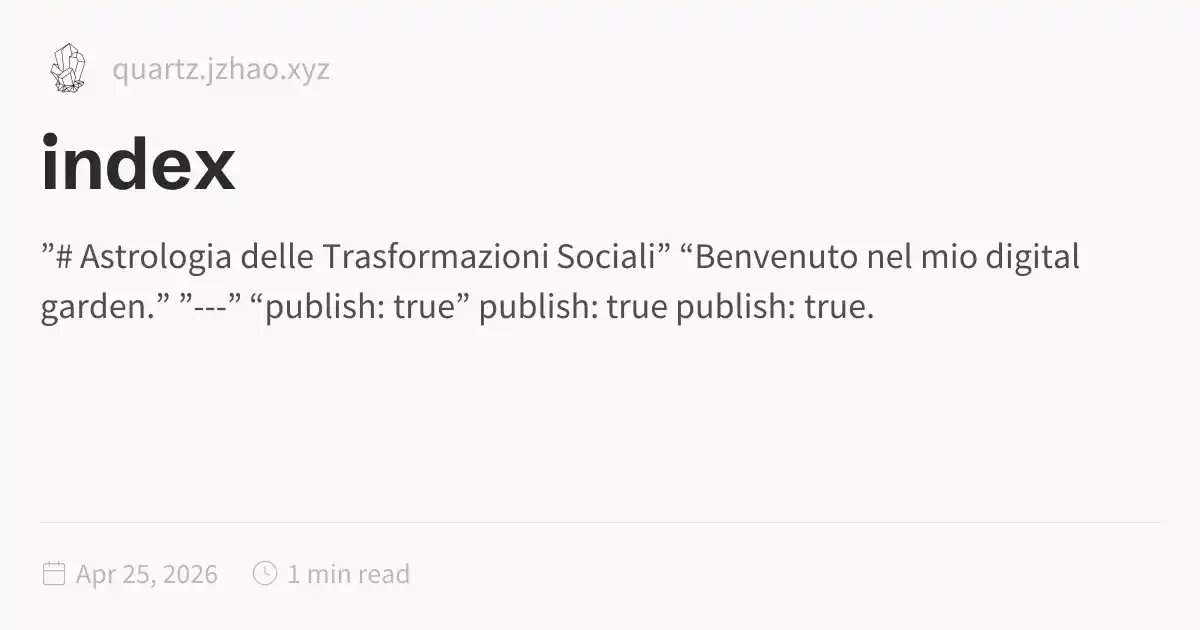
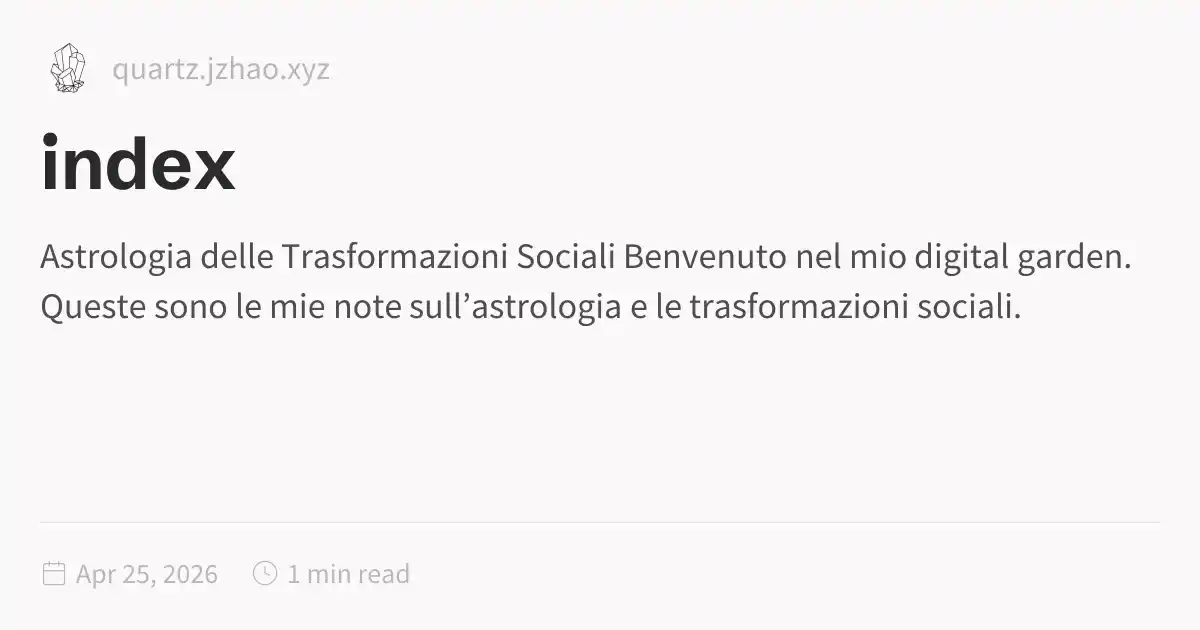
Aggiornamento diretto del sito via docs

Changed region(s): [[0.0308, 0.3619, 0.9558, 0.5127]]

diff --git a/docs/index.html b/docs/index.html
@@ -1,5 +1,5 @@
 <!DOCTYPE html>
-<html lang="en" dir="ltr"><head><title>index</title><meta charset="utf-8"/><link rel="preconnect" href="https://fonts.googleapis.com"/><link rel="preconnect" href="https://fonts.gstatic.com"/><link rel="stylesheet" href="https://fonts.googleapis.com/css2?family=Schibsted Grotesk:wght@400;700&amp;family=Source Sans Pro:ital,wght@0,400;0,600;1,400;1,600&amp;family=IBM Plex Mono:wght@400;600&amp;display=swap"/><link rel="preconnect" href="https://cdnjs.cloudflare.com" crossorigin="anonymous"/><meta name="viewport" content="width=device-width, initial-scale=1.0"/><meta name="og:site_name" content="Quartz 4"/><meta property="og:title" content="index"/><meta property="og:type" content="website"/><meta name="twitter:card" content="summary_large_image"/><meta name="twitter:title" content="index"/><meta name="twitter:description" content="”# Astrologia delle Trasformazioni Sociali” “Benvenuto nel mio digital garden.” ”---” “publish: true” publish: true publish: true."/><meta property="og:description" content="”# Astrologia delle Trasformazioni Sociali” “Benvenuto nel mio digital garden.” ”---” “publish: true” publish: true publish: true."/><meta property="og:image:alt" content="”# Astrologia delle Trasformazioni Sociali” “Benvenuto nel mio digital garden.” ”---” “publish: true” publish: true publish: true."/><meta property="twitter:domain" content="quartz.jzhao.xyz"/><meta property="og:url" content="https://quartz.jzhao.xyz/index"/><meta property="twitter:url" content="https://quartz.jzhao.xyz/index"/><link rel="icon" href="./static/icon.png"/><meta name="description" content="”# Astrologia delle Trasformazioni Sociali” “Benvenuto nel mio digital garden.” ”---” “publish: true” publish: true publish: true."/><meta name="generator" content="Quartz"/><link href="./index.css" rel="stylesheet" type="text/css" data-persist="true"/><style>.expand-button {
+<html lang="en" dir="ltr"><head><title>index</title><meta charset="utf-8"/><link rel="preconnect" href="https://fonts.googleapis.com"/><link rel="preconnect" href="https://fonts.gstatic.com"/><link rel="stylesheet" href="https://fonts.googleapis.com/css2?family=Schibsted Grotesk:wght@400;700&amp;family=Source Sans Pro:ital,wght@0,400;0,600;1,400;1,600&amp;family=IBM Plex Mono:wght@400;600&amp;display=swap"/><link rel="preconnect" href="https://cdnjs.cloudflare.com" crossorigin="anonymous"/><meta name="viewport" content="width=device-width, initial-scale=1.0"/><meta name="og:site_name" content="Quartz 4"/><meta property="og:title" content="index"/><meta property="og:type" content="website"/><meta name="twitter:card" content="summary_large_image"/><meta name="twitter:title" content="index"/><meta name="twitter:description" content="Astrologia delle Trasformazioni Sociali Benvenuto nel mio digital garden. Queste sono le mie note sull’astrologia e le trasformazioni sociali."/><meta property="og:description" content="Astrologia delle Trasformazioni Sociali Benvenuto nel mio digital garden. Queste sono le mie note sull’astrologia e le trasformazioni sociali."/><meta property="og:image:alt" content="Astrologia delle Trasformazioni Sociali Benvenuto nel mio digital garden. Queste sono le mie note sull’astrologia e le trasformazioni sociali."/><meta property="twitter:domain" content="quartz.jzhao.xyz"/><meta property="og:url" content="https://quartz.jzhao.xyz/index"/><meta property="twitter:url" content="https://quartz.jzhao.xyz/index"/><link rel="icon" href="./static/icon.png"/><meta name="description" content="Astrologia delle Trasformazioni Sociali Benvenuto nel mio digital garden. Queste sono le mie note sull’astrologia e le trasformazioni sociali."/><meta name="generator" content="Quartz"/><link href="./index.css" rel="stylesheet" type="text/css" data-persist="true"/><style>.expand-button {
   position: absolute;
   display: flex;
   float: right;
@@ -115,13 +115,10 @@ pre:hover > .expand-button {
   padding: 0 12px;
   font-size: 14px;
 }
[1 lines of base64/hex data omitted]
-“Benvenuto nel mio digital garden.”
-”---”
-“publish: true”<a role="anchor" aria-hidden="true" tabindex="-1" data-no-popover="true" href="#-astrologia-delle-trasformazioni-socialibenvenuto-nel-mio-digital-garden---publish-true" class="internal"><svg width="18" height="18" viewBox="0 0 24 24" fill="none" stroke="currentColor" stroke-width="2" stroke-linecap="round" stroke-linejoin="round"><path d="M10 13a5 5 0 0 0 7.54.54l3-3a5 5 0 0 0-7.07-7.07l-1.72 1.71"></path><path d="M14 11a5 5 0 0 0-7.54-.54l-3 3a5 5 0 0 0 7.07 7.07l1.71-1.71"></path></svg></a></h2>
-<h2 id="publish-true">publish: true<a role="anchor" aria-hidden="true" tabindex="-1" data-no-popover="true" href="#publish-true" class="internal"><svg width="18" height="18" viewBox="0 0 24 24" fill="none" stroke="currentColor" stroke-width="2" stroke-linecap="round" stroke-linejoin="round"><path d="M10 13a5 5 0 0 0 7.54.54l3-3a5 5 0 0 0-7.07-7.07l-1.72 1.71"></path><path d="M14 11a5 5 0 0 0-7.54-.54l-3 3a5 5 0 0 0 7.07 7.07l1.71-1.71"></path></svg></a></h2>
[1 lines of base64/hex data omitted]
+<p>Benvenuto nel mio digital garden. Queste sono le mie note sull’astrologia e le trasformazioni sociali.</p>
 <hr/>
-<h2 id="publish-true-1">publish: true<a role="anchor" aria-hidden="true" tabindex="-1" data-no-popover="true" href="#publish-true-1" class="internal"><svg width="18" height="18" viewBox="0 0 24 24" fill="none" stroke="currentColor" stroke-width="2" stroke-linecap="round" stroke-linejoin="round"><path d="M10 13a5 5 0 0 0 7.54.54l3-3a5 5 0 0 0-7.07-7.07l-1.72 1.71"></path><path d="M14 11a5 5 0 0 0-7.54-.54l-3 3a5 5 0 0 0 7.07 7.07l1.71-1.71"></path></svg></a></h2></article><hr/><div class="page-footer"></div></div><div class="right sidebar"><div class="graph"><h3>Graph View</h3><div class="graph-outer"><div class="graph-container" data-cfg="{&quot;drag&quot;:true,&quot;zoom&quot;:true,&quot;depth&quot;:1,&quot;scale&quot;:1.1,&quot;repelForce&quot;:0.5,&quot;centerForce&quot;:0.3,&quot;linkDistance&quot;:30,&quot;fontSize&quot;:0.6,&quot;opacityScale&quot;:1,&quot;showTags&quot;:true,&quot;removeTags&quot;:[],&quot;focusOnHover&quot;:false,&quot;enableRadial&quot;:false}"></div><button class="global-graph-icon" aria-label="Global Graph"><svg version="1.1" xmlns="http://www.w3.org/2000/svg" xmlns:xlink="http://www.w3.org/1999/xlink" x="0px" y="0px" viewBox="0 0 55 55" fill="currentColor" xml:space="preserve"><path d="M49,0c-3.309,0-6,2.691-6,6c0,1.035,0.263,2.009,0.726,2.86l-9.829,9.829C32.542,17.634,30.846,17,29,17
+<h2 id="publish-true">publish: true<a role="anchor" aria-hidden="true" tabindex="-1" data-no-popover="true" href="#publish-true" class="internal"><svg width="18" height="18" viewBox="0 0 24 24" fill="none" stroke="currentColor" stroke-width="2" stroke-linecap="round" stroke-linejoin="round"><path d="M10 13a5 5 0 0 0 7.54.54l3-3a5 5 0 0 0-7.07-7.07l-1.72 1.71"></path><path d="M14 11a5 5 0 0 0-7.54-.54l-3 3a5 5 0 0 0 7.07 7.07l1.71-1.71"></path></svg></a></h2></article><hr/><div class="page-footer"></div></div><div class="right sidebar"><div class="graph"><h3>Graph View</h3><div class="graph-outer"><div class="graph-container" data-cfg="{&quot;drag&quot;:true,&quot;zoom&quot;:true,&quot;depth&quot;:1,&quot;scale&quot;:1.1,&quot;repelForce&quot;:0.5,&quot;centerForce&quot;:0.3,&quot;linkDistance&quot;:30,&quot;fontSize&quot;:0.6,&quot;opacityScale&quot;:1,&quot;showTags&quot;:true,&quot;removeTags&quot;:[],&quot;focusOnHover&quot;:false,&quot;enableRadial&quot;:false}"></div><button class="global-graph-icon" aria-label="Global Graph"><svg version="1.1" xmlns="http://www.w3.org/2000/svg" xmlns:xlink="http://www.w3.org/1999/xlink" x="0px" y="0px" viewBox="0 0 55 55" fill="currentColor" xml:space="preserve"><path d="M49,0c-3.309,0-6,2.691-6,6c0,1.035,0.263,2.009,0.726,2.86l-9.829,9.829C32.542,17.634,30.846,17,29,17
                 s-3.542,0.634-4.898,1.688l-7.669-7.669C16.785,10.424,17,9.74,17,9c0-2.206-1.794-4-4-4S9,6.794,9,9s1.794,4,4,4
                 c0.74,0,1.424-0.215,2.019-0.567l7.669,7.669C21.634,21.458,21,23.154,21,25s0.634,3.542,1.688,4.897L10.024,42.562
                 C8.958,41.595,7.549,41,6,41c-3.309,0-6,2.691-6,6s2.691,6,6,6s6-2.691,6-6c0-1.035-0.263-2.009-0.726-2.86l12.829-12.829
@@ -131,9 +128,6 @@ pre:hover > .expand-button {
                 C46.042,11.405,47.451,12,49,12c3.309,0,6-2.691,6-6S52.309,0,49,0z M11,9c0-1.103,0.897-2,2-2s2,0.897,2,2s-0.897,2-2,2
                 S11,10.103,11,9z M6,51c-2.206,0-4-1.794-4-4s1.794-4,4-4s4,1.794,4,4S8.206,51,6,51z M33,49c0,2.206-1.794,4-4,4s-4-1.794-4-4
                 s1.794-4,4-4S33,46.794,33,49z M29,31c-3.309,0-6-2.691-6-6s2.691-6,6-6s6,2.691,6,6S32.309,31,29,31z M47,41c0,1.103-0.897,2-2,2
-                s-2-0.897-2-2s0.897-2,2-2S47,39.897,47,41z M49,10c-2.206,0-4-1.794-4-4s1.794-4,4-4s4,1.794,4,4S51.206,10,49,10z"></path></svg></button></div><div class="global-graph-outer"><div class="global-graph-container" data-cfg="{&quot;drag&quot;:true,&quot;zoom&quot;:true,&quot;depth&quot;:-1,&quot;scale&quot;:0.9,&quot;repelForce&quot;:0.5,&quot;centerForce&quot;:0.2,&quot;linkDistance&quot;:30,&quot;fontSize&quot;:0.6,&quot;opacityScale&quot;:1,&quot;showTags&quot;:true,&quot;removeTags&quot;:[],&quot;focusOnHover&quot;:true,&quot;enableRadial&quot;:true}"></div></div></div><div class="toc desktop-only"><button type="button" class="toc-header" aria-controls="toc-2" aria-expanded="true"><h3>Table of Contents</h3><svg xmlns="http://www.w3.org/2000/svg" width="24" height="24" viewBox="0 0 24 24" fill="none" stroke="currentColor" stroke-width="2" stroke-linecap="round" stroke-linejoin="round" class="fold"><polyline points="6 9 12 15 18 9"></polyline></svg></button><ul id="list-1" class="toc-content overflow"><li class="depth-0"><a href="#-astrologia-delle-trasformazioni-socialibenvenuto-nel-mio-digital-garden---publish-true" data-for="-astrologia-delle-trasformazioni-socialibenvenuto-nel-mio-digital-garden---publish-true">”# Astrologia delle Trasformazioni Sociali”
-“Benvenuto nel mio digital garden.”
-”---”
-“publish: true”</a></li><li class="depth-0"><a href="#publish-true" data-for="publish-true">publish: true</a></li><li class="depth-0"><a href="#publish-true-1" data-for="publish-true-1">publish: true</a></li><li class="overflow-end"></li></ul></div></div><footer class><p>Created with <a href="https://quartz.jzhao.xyz/">Quartz v4.5.2</a> © 2026</p><ul><li><a href="https://github.com/jackyzha0/quartz">GitHub</a></li><li><a href="https://discord.gg/cRFFHYye7t">Discord Community</a></li></ul></footer></div></div></body><script type="application/javascript" data-persist="true">function n(){let t=this.parentElement;t.classList.toggle("is-collapsed");let e=t.getElementsByClassName("callout-content")[0];if(!e)return;let l=t.classList.contains("is-collapsed");e.style.gridTemplateRows=l?"0fr":"1fr"}function c(){let t=document.getElementsByClassName("callout is-collapsible");for(let e of t){let l=e.getElementsByClassName("callout-title")[0],s=e.getElementsByClassName("callout-content")[0];if(!l||!s)continue;l.addEventListener("click",n),window.addCleanup(()=>l.removeEventListener("click",n));let o=e.classList.contains("is-collapsed");s.style.gridTemplateRows=o?"0fr":"1fr"}}document.addEventListener("nav",c);
+                s-2-0.897-2-2s0.897-2,2-2S47,39.897,47,41z M49,10c-2.206,0-4-1.794-4-4s1.794-4,4-4s4,1.794,4,4S51.206,10,49,10z"></path></svg></button></div><div class="global-graph-outer"><div class="global-graph-container" data-cfg="{&quot;drag&quot;:true,&quot;zoom&quot;:true,&quot;depth&quot;:-1,&quot;scale&quot;:0.9,&quot;repelForce&quot;:0.5,&quot;centerForce&quot;:0.2,&quot;linkDistance&quot;:30,&quot;fontSize&quot;:0.6,&quot;opacityScale&quot;:1,&quot;showTags&quot;:true,&quot;removeTags&quot;:[],&quot;focusOnHover&quot;:true,&quot;enableRadial&quot;:true}"></div></div></div><div class="toc desktop-only"><button type="button" class="toc-header" aria-controls="toc-2" aria-expanded="true"><h3>Table of Contents</h3><svg xmlns="http://www.w3.org/2000/svg" width="24" height="24" viewBox="0 0 24 24" fill="none" stroke="currentColor" stroke-width="2" stroke-linecap="round" stroke-linejoin="round" class="fold"><polyline points="6 9 12 15 18 9"></polyline></svg></button><ul id="list-1" class="toc-content overflow"><li class="depth-0"><a href="#astrologia-delle-trasformazioni-sociali" data-for="astrologia-delle-trasformazioni-sociali">Astrologia delle Trasformazioni Sociali</a></li><li class="depth-1"><a href="#publish-true" data-for="publish-true">publish: true</a></li><li class="overflow-end"></li></ul></div></div><footer class><p>Created with <a href="https://quartz.jzhao.xyz/">Quartz v4.5.2</a> © 2026</p><ul><li><a href="https://github.com/jackyzha0/quartz">GitHub</a></li><li><a href="https://discord.gg/cRFFHYye7t">Discord Community</a></li></ul></footer></div></div></body><script type="application/javascript" data-persist="true">function n(){let t=this.parentElement;t.classList.toggle("is-collapsed");let e=t.getElementsByClassName("callout-content")[0];if(!e)return;let l=t.classList.contains("is-collapsed");e.style.gridTemplateRows=l?"0fr":"1fr"}function c(){let t=document.getElementsByClassName("callout is-collapsible");for(let e of t){let l=e.getElementsByClassName("callout-title")[0],s=e.getElementsByClassName("callout-content")[0];if(!l||!s)continue;l.addEventListener("click",n),window.addCleanup(()=>l.removeEventListener("click",n));let o=e.classList.contains("is-collapsed");s.style.gridTemplateRows=o?"0fr":"1fr"}}document.addEventListener("nav",c);
 </script><script type="module" data-persist="true">function E(a,e){if(!a)return;function t(o){o.target===this&&(o.preventDefault(),o.stopPropagation(),e())}function n(o){o.key.startsWith("Esc")&&(o.preventDefault(),e())}a?.addEventListener("click",t),window.addCleanup(()=>a?.removeEventListener("click",t)),document.addEventListener("keydown",n),window.addCleanup(()=>document.removeEventListener("keydown",n))}function f(a){for(;a.firstChild;)a.removeChild(a.firstChild)}var m=class{constructor(e,t){this.container=e;this.content=t;this.setupEventListeners(),this.setupNavigationControls(),this.resetTransform()}isDragging=!1;startPan={x:0,y:0};currentPan={x:0,y:0};scale=1;MIN_SCALE=.5;MAX_SCALE=3;cleanups=[];setupEventListeners(){let e=this.onMouseDown.bind(this),t=this.onMouseMove.bind(this),n=this.onMouseUp.bind(this),o=this.onTouchStart.bind(this),r=this.onTouchMove.bind(this),i=this.onTouchEnd.bind(this),s=this.resetTransform.bind(this);this.container.addEventListener("mousedown",e),document.addEventListener("mousemove",t),document.addEventListener("mouseup",n),this.container.addEventListener("touchstart",o,{passive:!1}),document.addEventListener("touchmove",r,{passive:!1}),document.addEventListener("touchend",i),window.addEventListener("resize",s),this.cleanups.push(()=>this.container.removeEventListener("mousedown",e),()=>document.removeEventListener("mousemove",t),()=>document.removeEventListener("mouseup",n),()=>this.container.removeEventListener("touchstart",o),()=>document.removeEventListener("touchmove",r),()=>document.removeEventListener("touchend",i),()=>window.removeEventListener("resize",s))}cleanup(){for(let e of this.cleanups)e()}setupNavigationControls(){let e=document.createElement("div");e.className="mermaid-controls";let t=this.createButton("+",()=>this.zoom(.1)),n=this.createButton("-",()=>this.zoom(-.1)),o=this.createButton("Reset",()=>this.resetTransform());e.appendChild(n),e.appendChild(o),e.appendChild(t),this.container.appendChild(e)}createButton(e,t){let n=document.createElement("button");return n.textContent=e,n.className="mermaid-control-button",n.addEventListener("click",t),window.addCleanup(()=>n.removeEventListener("click",t)),n}onMouseDown(e){e.button===0&&(this.isDragging=!0,this.startPan={x:e.clientX-this.currentPan.x,y:e.clientY-this.currentPan.y},this.container.style.cursor="grabbing")}onMouseMove(e){this.isDragging&&(e.preventDefault(),this.currentPan={x:e.clientX-this.startPan.x,y:e.clientY-this.startPan.y},this.updateTransform())}onMouseUp(){this.isDragging=!1,this.container.style.cursor="grab"}onTouchStart(e){if(e.touches.length!==1)return;this.isDragging=!0;let t=e.touches[0];this.startPan={x:t.clientX-this.currentPan.x,y:t.clientY-this.currentPan.y}}onTouchMove(e){if(!this.isDragging||e.touches.length!==1)return;e.preventDefault();let t=e.touches[0];this.currentPan={x:t.clientX-this.startPan.x,y:t.clientY-this.startPan.y},this.updateTransform()}onTouchEnd(){this.isDragging=!1}zoom(e){let t=Math.min(Math.max(this.scale+e,this.MIN_SCALE),this.MAX_SCALE),n=this.content.getBoundingClientRect(),o=n.width/2,r=n.height/2,i=t-this.scale;this.currentPan.x-=o*i,this.currentPan.y-=r*i,this.scale=t,this.updateTransform()}updateTransform(){this.content.style.transform=`translate(${this.currentPan.x}px, ${this.currentPan.y}px) scale(${this.scale})`}resetTransform(){let t=this.content.querySelector("svg").getBoundingClientRect(),n=t.width/this.scale,o=t.height/this.scale;this.scale=1,this.currentPan={x:(this.container.clientWidth-n)/2,y:(this.container.clientHeight-o)/2},this.updateTransform()}},T=["--secondary","--tertiary","--gray","--light","--lightgray","--highlight","--dark","--darkgray","--codeFont"],y;document.addEventListener("nav",async()=>{let e=document.querySelector(".center").querySelectorAll("code.mermaid");if(e.length===0)return;y||=await import("https://cdnjs.cloudflare.com/ajax/libs/mermaid/11.4.0/mermaid.esm.min.mjs");let t=y.default,n=new WeakMap;for(let r of e)n.set(r,r.innerText);async function o(){for(let s of e){s.removeAttribute("data-processed");let c=n.get(s);c&&(s.innerHTML=c)}let r=T.reduce((s,c)=>(s[c]=window.getComputedStyle(document.documentElement).getPropertyValue(c),s),{}),i=document.documentElement.getAttribute("saved-theme")==="dark";t.initialize({startOnLoad:!1,securityLevel:"loose",theme:i?"dark":"base",themeVariables:{fontFamily:r["--codeFont"],primaryColor:r["--light"],primaryTextColor:r["--darkgray"],primaryBorderColor:r["--tertiary"],lineColor:r["--darkgray"],secondaryColor:r["--secondary"],tertiaryColor:r["--tertiary"],clusterBkg:r["--light"],edgeLabelBackground:r["--highlight"]}}),await t.run({nodes:e})}await o(),document.addEventListener("themechange",o),window.addCleanup(()=>document.removeEventListener("themechange",o));for(let r=0;r<e.length;r++){let v=function(){let g=l.querySelector("#mermaid-space"),h=l.querySelector(".mermaid-content");if(!h)return;f(h);let w=i.querySelector("svg").cloneNode(!0);h.appendChild(w),l.classList.add("active"),g.style.cursor="grab",u=new m(g,h)},M=function(){l.classList.remove("active"),u?.cleanup(),u=null},i=e[r],s=i.parentElement,c=s.querySelector(".clipboard-button"),d=s.querySelector(".expand-button"),p=window.getComputedStyle(c),L=c.offsetWidth+parseFloat(p.marginLeft||"0")+parseFloat(p.marginRight||"0");d.style.right=`calc(${L}px + 0.3rem)`,s.prepend(d);let l=s.querySelector("#mermaid-container");if(!l)return;let u=null;d.addEventListener("click",v),E(l,M),window.addCleanup(()=>{u?.cleanup(),d.removeEventListener("click",v)})}});
 </script><script src="https://cdn.jsdelivr.net/npm/katex@0.16.11/dist/contrib/copy-tex.min.js" type="application/javascript" data-persist="true"></script><script src="./postscript.js" type="module" data-persist="true"></script></html>
